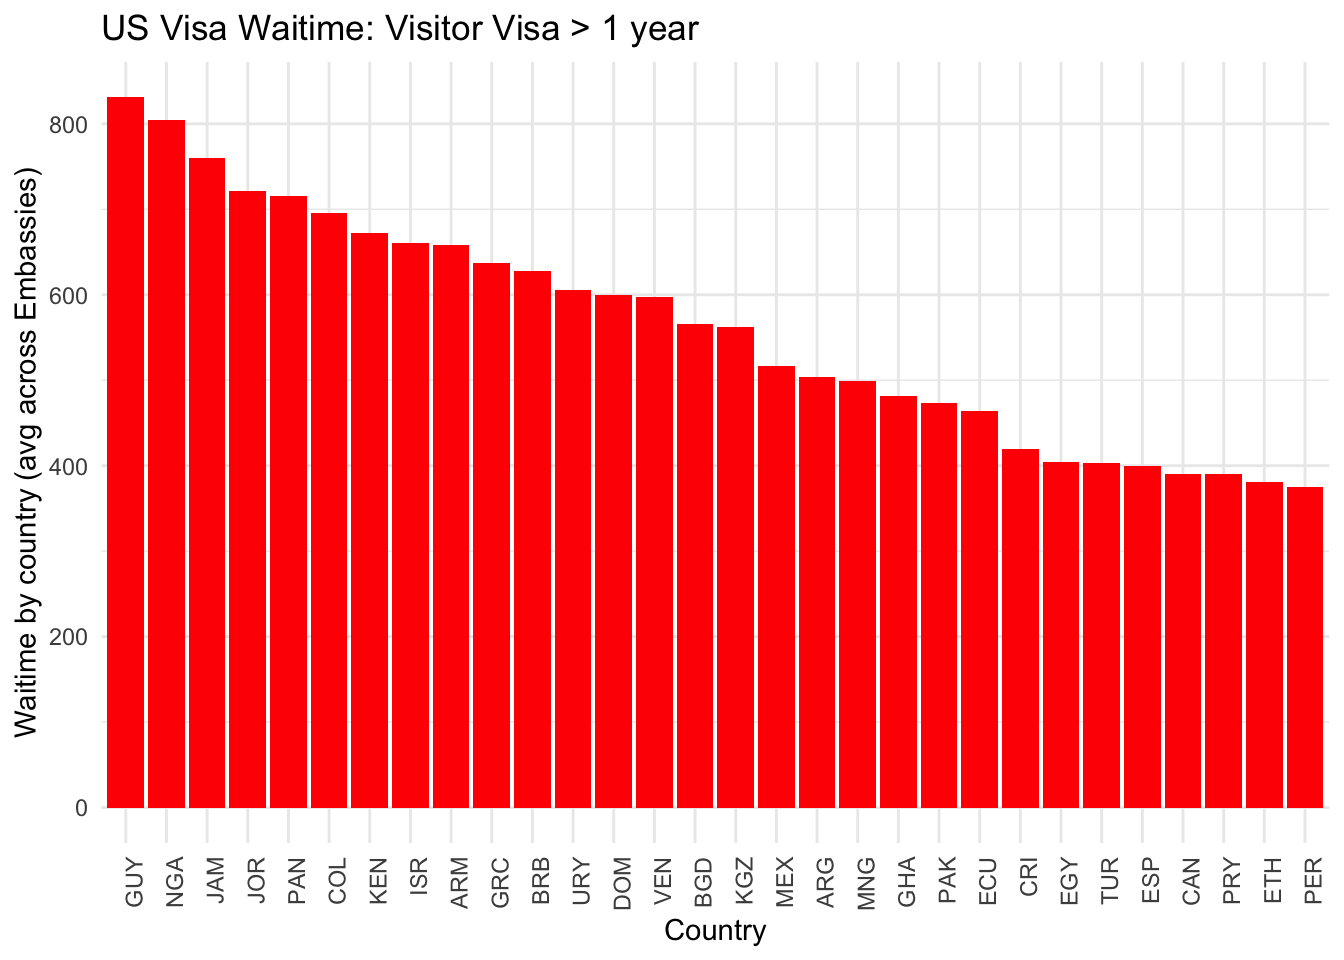
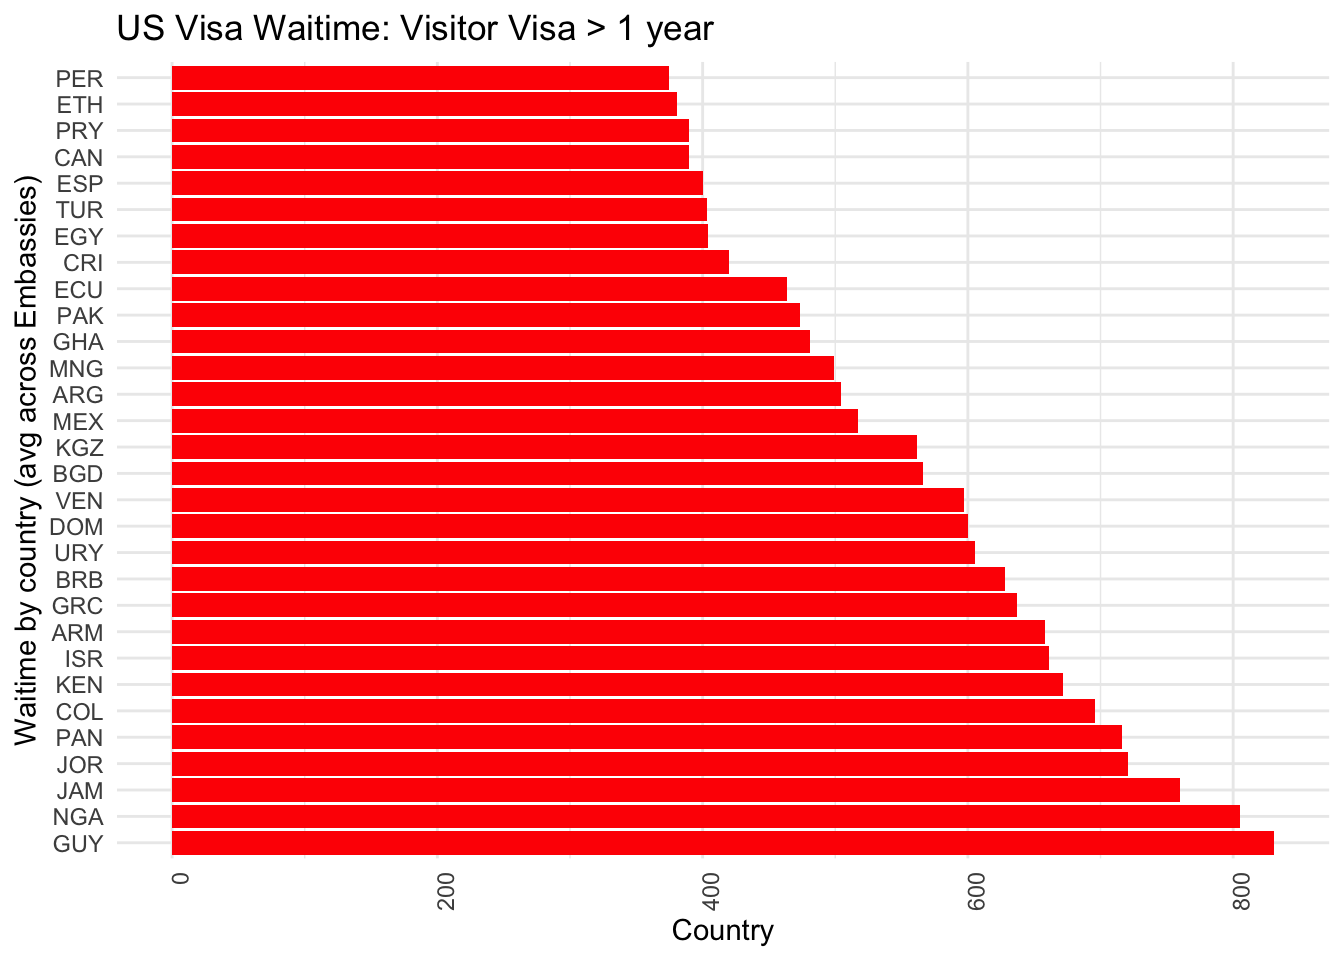
change axis in chart

diff --git a/content/posts/2020-12-01-r-rmarkdown/index.html b/content/posts/2020-12-01-r-rmarkdown/index.html
@@ -6,7 +6,6 @@ categories: ["R"]
 tags: ["R Markdown", "plot", "regression"]
 ---
 
-<script src="{{< blogdown/postref >}}index_files/header-attrs/header-attrs.js"></script>
 
 
 <div id="for-visitor-visa" class="section level3">
